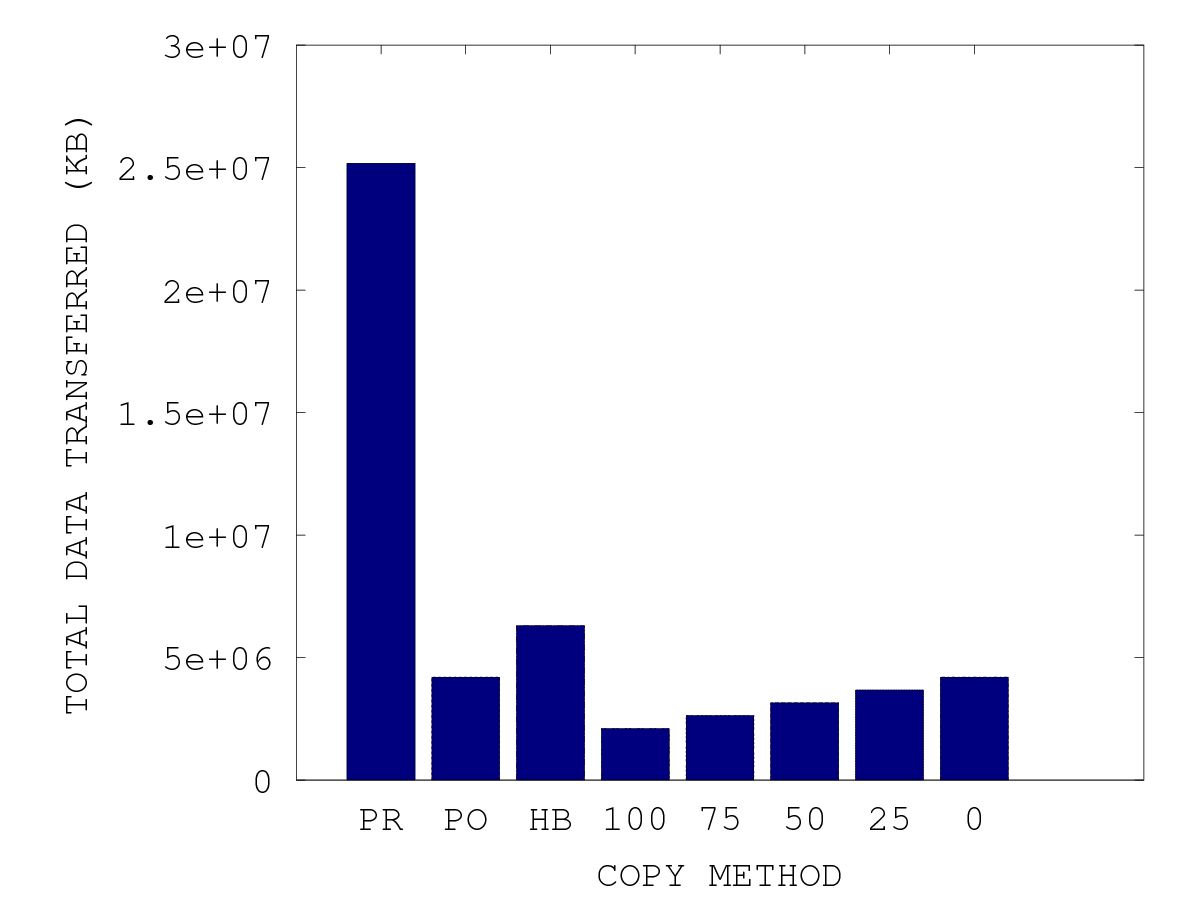
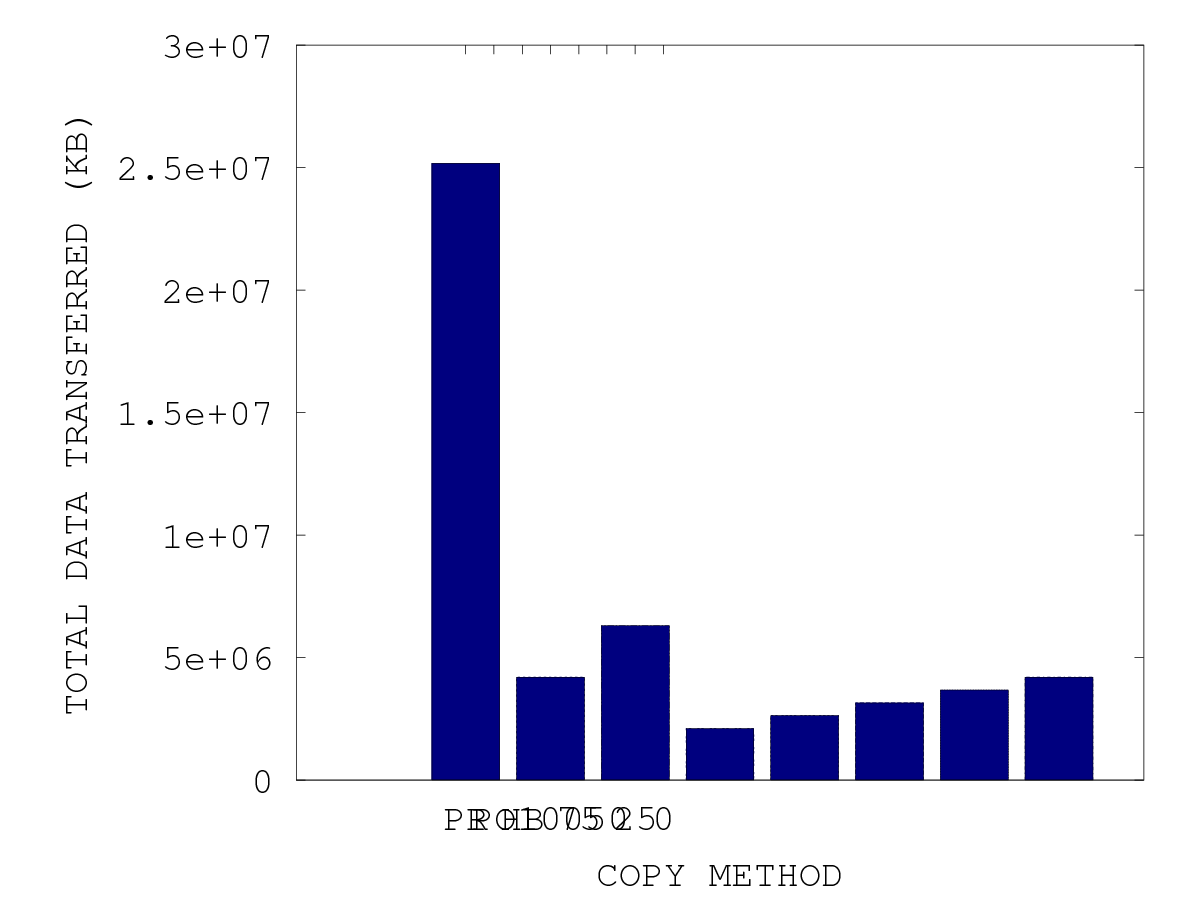
basic.m

diff --git a/basic.m b/basic.m
@@ -299,7 +299,7 @@ saveas (1, strcat(output, ".emf"));
 figure;
 output = strcat(prefix, ".dt");
 
-bar(A(:,2))
+bar(xintervals, A(:,2))
 set(gca, 'XTick', 1:8, 'XTickLabel', x, 'FontSize', fontsize)
 xlabel('COPY METHOD', 'FontSize', fontsize);
 ylabel('DOWNTIME (SEC)', 'FontSize', fontsize);
@@ -312,7 +312,7 @@ saveas (1, strcat(output, ".emf"));
 figure;
 output = strcat(prefix, ".td");
 
-bar(A(:,3))
+bar(xintervals, A(:,3))
 set(gca, 'XTick', 1:8, 'XTickLabel', x, 'FontSize', fontsize)
 xlabel('COPY METHOD', 'FontSize', fontsize);
 ylabel('TOTAL DATA TRANSFERRED (KB)', 'FontSize', fontsize);
